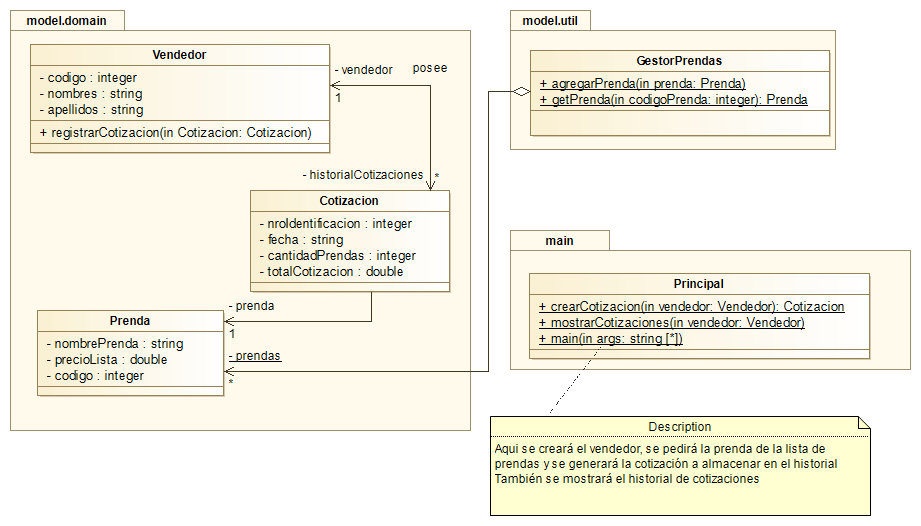
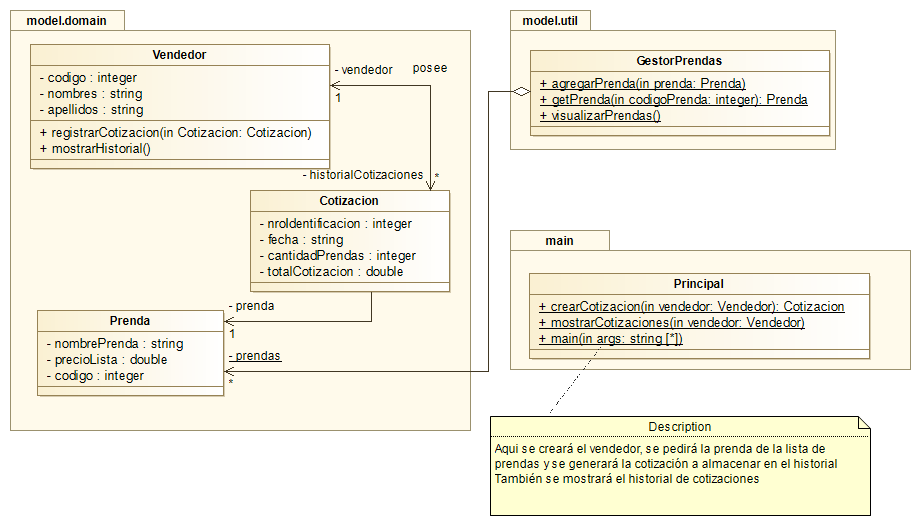
Actualización del diagrama de clases y prueba de funcionalidades

Changed region(s): [[0.0304, 0.2738, 0.3648, 0.3346], [0.5776, 0.2129, 0.7296, 0.2433]]

diff --git a/src/main/Principal.java b/src/main/Principal.java
@@ -1,8 +1,10 @@
 package main;
 
-import java.util.List;
+import java.util.Scanner;
 
+import model.domain.Cotizacion;
 import model.domain.Prenda;
+import model.domain.Vendedor;
 import model.util.GestorPrendas;
 
 /**
@@ -35,7 +37,43 @@ public class Principal {
 		if(prendaBuscada02==null) {
 			System.out.println("No existe la prenda en los registros de prendas");
 		}
-
+		
+		// aqui empieza la prueba de las fucnionalidades pedidas
+		Vendedor vendedor = new Vendedor(111, "Ariel", "Vega");
+		vendedor.registrarCotizacion(crearCotizacion(vendedor));
+		vendedor.registrarCotizacion(crearCotizacion(vendedor));
+		vendedor.mostrarHistorial();
+		
+	}
+	
+	/** 
+	 * Permite crear una cotización solicitada por consola
+	 * @param vendedor el vendedor que realiza la cotización
+	 * @return la cotización realizada por el vendedor
+	 */
+	public static Cotizacion crearCotizacion(Vendedor vendedor) {
+		Scanner scanner = new Scanner(System.in);
+		System.out.println("Ingresar nro de Cotización: ");
+		int nroIdentificacion = scanner.nextInt();
+		System.out.println("Ingresar la fecha de cotización: ");
+		String fecha = scanner.next();
+		System.out.println("Ingresar el codigo de la prenda a cotizar: ");
+		int codigoPrenda = scanner.nextInt(); //en esta versión se asume que se ingresa un código existente
+		Prenda prenda = GestorPrendas.getPrenda(codigoPrenda);
+		System.out.println("Ingresar cantidad de prendas a cotizar: ");
+		int cantidadPrendas = scanner.nextInt();
+		Cotizacion cotizacion = new Cotizacion(nroIdentificacion, fecha, prenda, cantidadPrendas, vendedor);
+		//scanner.close();
+		return cotizacion;
+		
+	}
+	
+	/**
+	 * Permite mostrara as cotizaciones de un vendedor
+	 * @param vendedor el vendedor del que se mostrará sus cotizaciones
+	 */
+	public static void mostrarCotizaciones(Vendedor vendedor) {
+		vendedor.mostrarHistorial();
 	}
 
 	

diff --git a/src/model/domain/Cotizacion.java b/src/model/domain/Cotizacion.java
@@ -46,6 +46,13 @@ public class Cotizacion {
 		this.vendedor = vendedor;
 		this.totalCotizacion = this.cantidadPrendas * prenda.getPrecioLista();
 	}
+
+	@Override
+	public String toString() {
+		return "Cotizacion [nroIdentificacion=" + nroIdentificacion + ", fecha=" + fecha + ", prenda=" + prenda
+				+ ", cantidadPrendas=" + cantidadPrendas + ", totalCotizacion=" + totalCotizacion + ", vendedor="
+				+ vendedor + "]";
+	}
 	
 	
 	

diff --git a/src/model/domain/Vendedor.java b/src/model/domain/Vendedor.java
@@ -54,4 +54,18 @@ public class Vendedor {
 		this.historialCotizaciones.add(cotizacion);
 	}
 	
+	
+	public void mostrarHistorial() {
+		for(Cotizacion c:historialCotizaciones) {
+			System.out.println(c);
+		}
+	}
+
+	@Override
+	public String toString() {
+		return "Vendedor [codigo=" + codigo + ", nombres=" + nombres + ", apellidos=" + apellidos
+				+ "]";
+	}
+	
+	
 }
